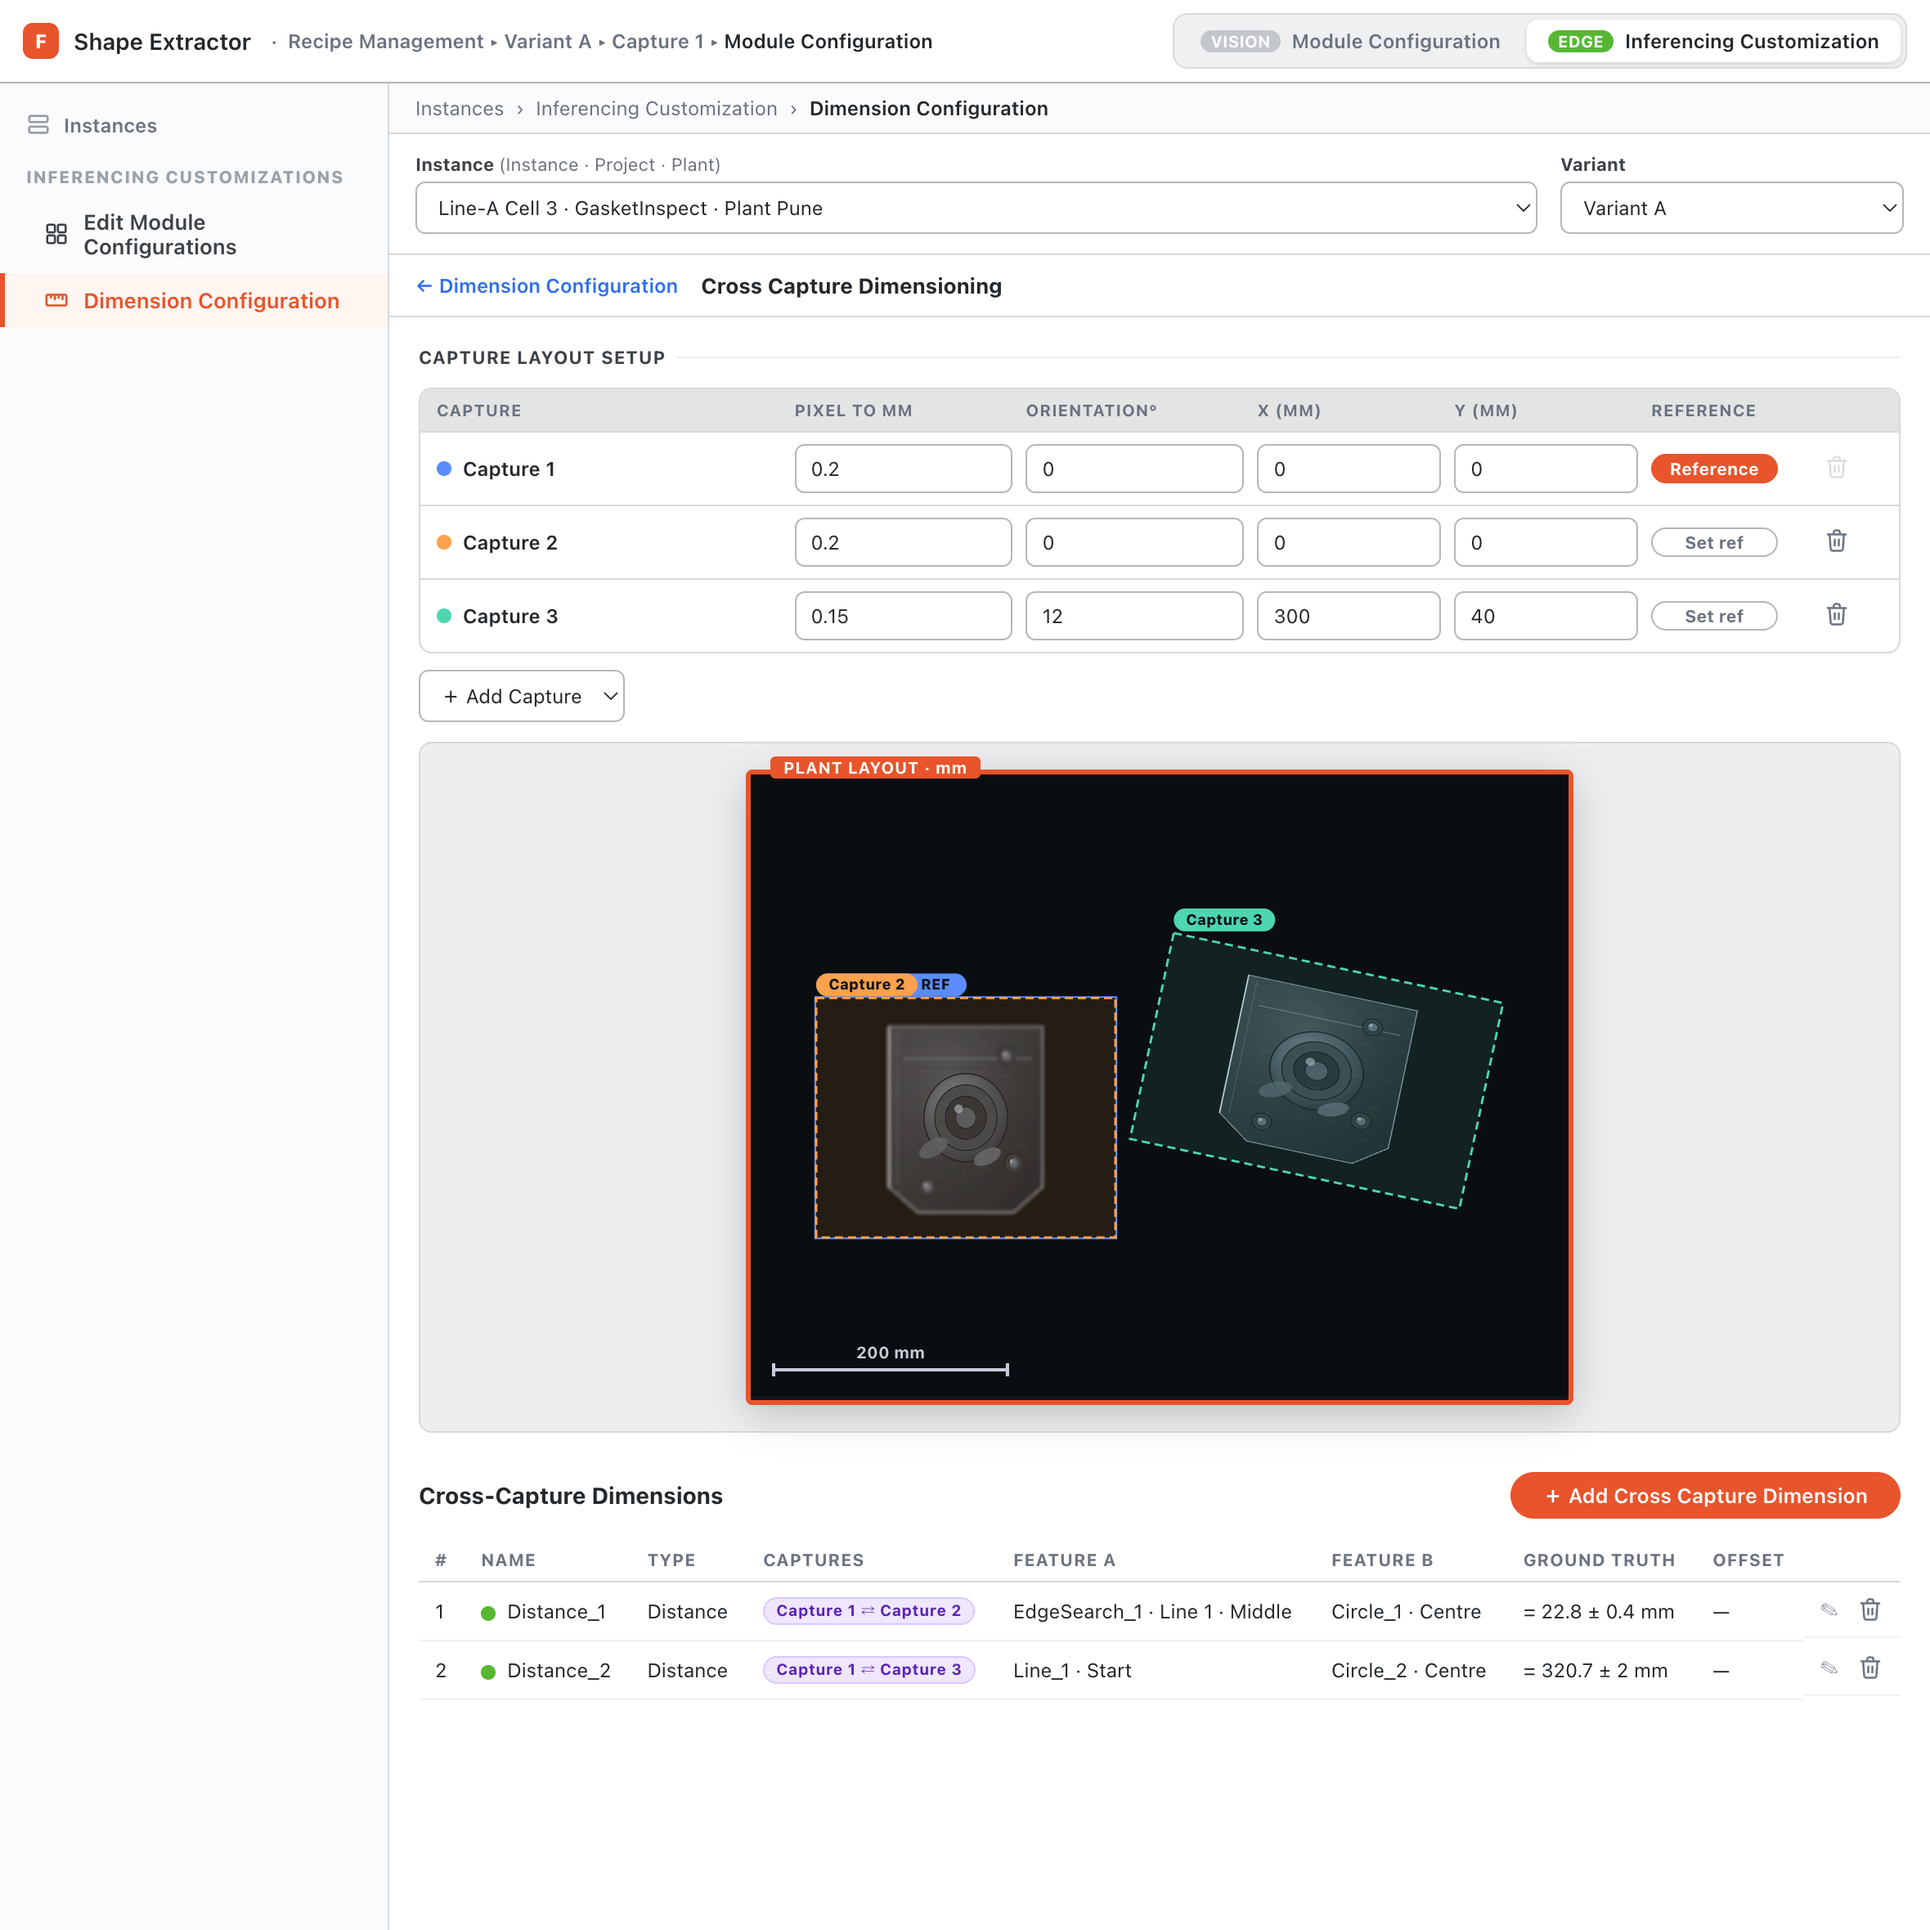
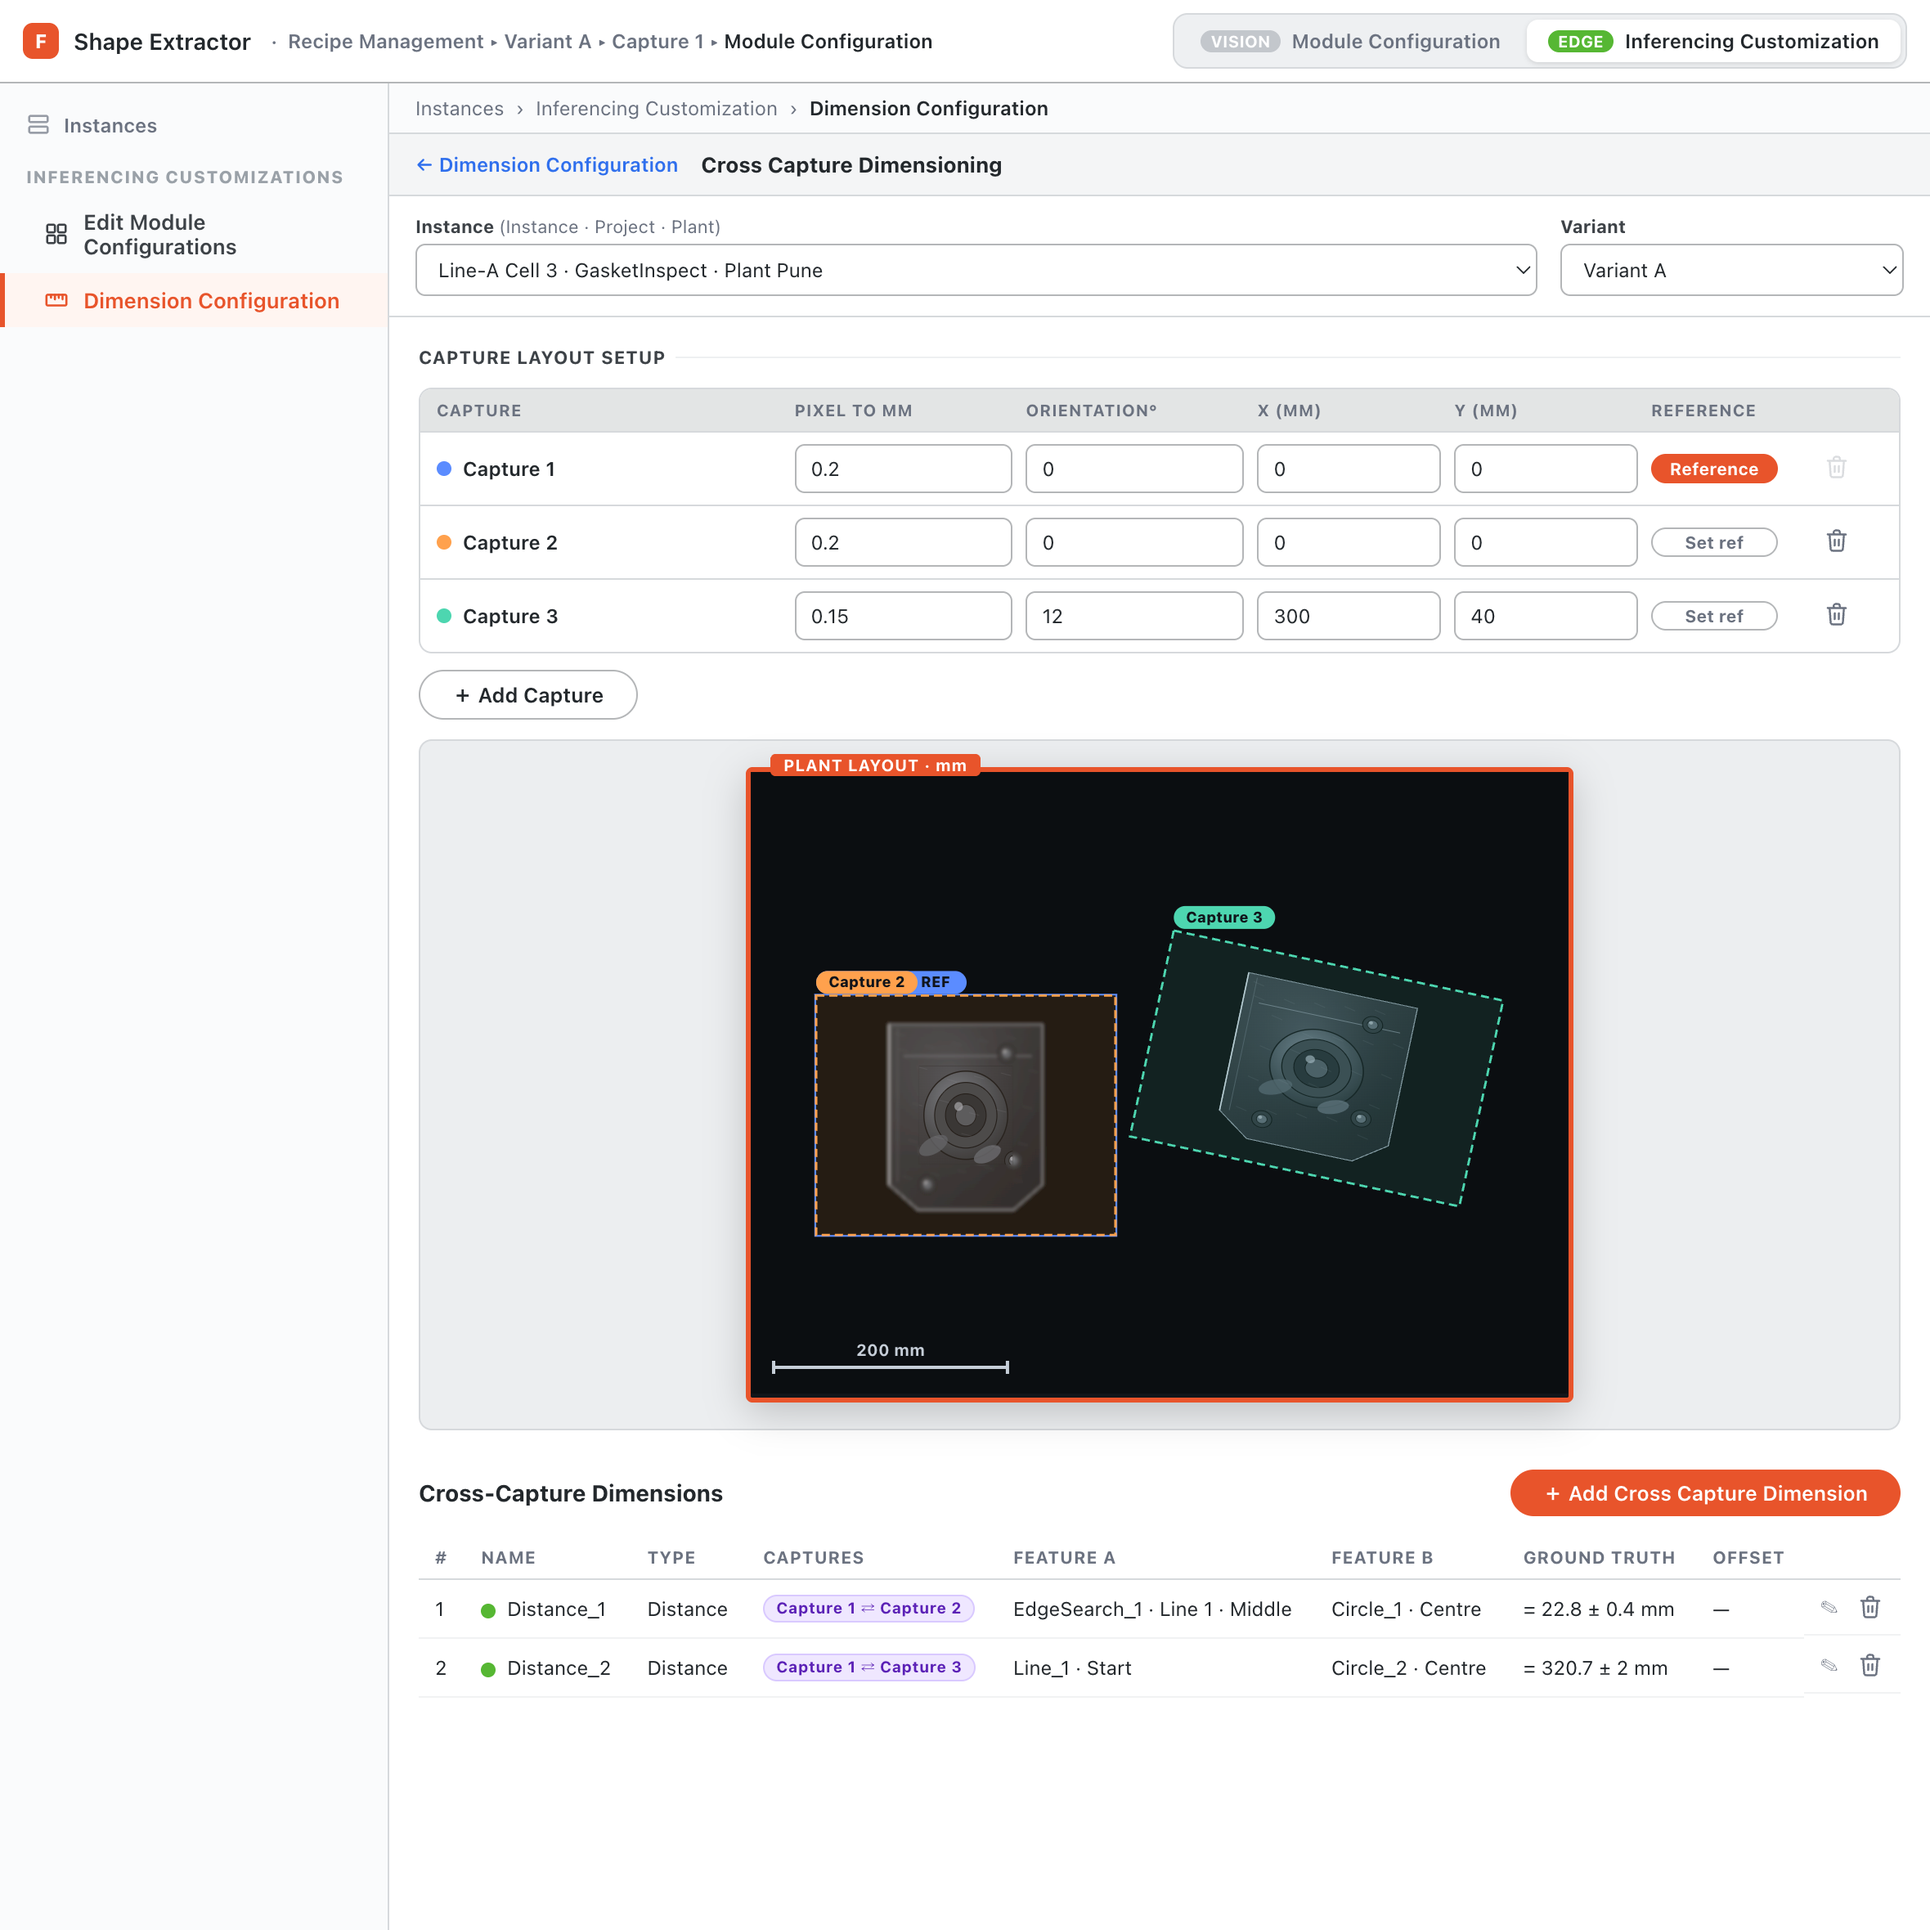
Cross Capture Dimensioning UX: inline Add-Capture row (no nested dropdown), Distance-only greyed Type, sub-page header above Instance/Variant
- + Add Capture is now a button that drops a draft row into the table; the Capture
  cell is a picker. Button hidden once every capture is established.
- Add Cross Capture Dimension: Type dropdown is greyed (Distance only across captures).
- The back arrow + page title (Cross Capture Dimensioning / Add Cross Capture
  Dimension / Add-Edit Dimension) is lifted into the Edge chrome, above the
  Instance / Variant selectors, for every Dimension Configuration sub-page.

diff --git a/index.html b/index.html
@@ -1516,8 +1516,8 @@ function makeDim(shapes, n) {
   };
 }
 // A cross-capture dimension: same shape as a normal dimension, but Feature B defaults to a different
-// capture. Only the two-feature types (Angle, Distance) can span captures.
-const CROSS_TYPE_OPTS = DIM_TYPE_OPTS.filter((o) => o.v === 1 || o.v === 2);
+// capture. Only Distance is allowed across captures (the Type dropdown is greyed out to convey this).
+const CROSS_TYPE_OPTS = DIM_TYPE_OPTS.filter((o) => o.v === 2);
 function makeCrossDim(shapes, n) {
   return {
     id: 'dim_' + Math.floor(rnd() * 1e6), name: 'Distance_' + n,
@@ -2067,7 +2067,7 @@ function FeatureCascade({ node, patch, shapes, typeOpts, onType, allowCross = fa
     <div>
       <div className="row3 field">
         {typeOpts && <div><span className="tinylab">Type</span>
-          <select className="sel" value={node.type} onChange={(e) => onType(Number(e.target.value))}>
+          <select className="sel" value={node.type} disabled={typeOpts.length <= 1} title={typeOpts.length <= 1 ? 'Only Distance can be measured across captures' : undefined} onChange={(e) => onType(Number(e.target.value))}>
             {typeOpts.map((o) => <option key={o.v} value={o.v}>{o.n}</option>)}
           </select>
         </div>}
@@ -2213,6 +2213,9 @@ function CaptureLayoutSetup({ layout, setLayout, activeCaps, setActiveCaps }) {
   };
   const removeCap = (id) => { if (id !== ref) setActiveCaps((p) => p.filter((x) => x !== id)); };
 
+  // Adding a capture drops a draft ROW into the table whose Capture cell is a picker; choosing a
+  // capture there establishes it. No nested dropdown-in-a-dropdown.
+  const [pendingRow, setPendingRow] = useState(false);
   // Save / Reset the capture layout — the bar appears once the setup is changed (e.g. a capture added).
   const [committed, setCommitted] = useState(() => ({ activeCaps: [...activeCaps], layout: clone(layout) }));
   const snapOf = (a, L) => JSON.stringify([a, L.ratio, L.angle, L.offset, L.referenceId]);
@@ -2285,14 +2288,25 @@ function CaptureLayoutSetup({ layout, setLayout, activeCaps, setActiveCaps }) {
             </div>
           );
         })}
+        {pendingRow && (
+          <div className="xr">
+            <select className="sel" style={{ width: '100%' }} value="" onChange={(e) => { if (e.target.value) { establish(e.target.value); setPendingRow(false); } }}>
+              <option value="">Select capture…</option>
+              {remaining.map((c) => <option key={c.id} value={c.id}>{c.name}</option>)}
+            </select>
+            <input className="inp" disabled value="0.2" readOnly />
+            <input className="inp" disabled value="0" readOnly />
+            <input className="inp" disabled value="0" readOnly />
+            <input className="inp" disabled value="0" readOnly />
+            <span className="refbtn" style={{ opacity: 0.35 }}>—</span>
+            <span className="rm" title="Cancel" onClick={() => setPendingRow(false)}>✕</span>
+          </div>
+        )}
       </div>
       <div className="xcap-tablefoot">
         <div>
-          {remaining.length > 0 && (
-            <select className="sel" style={{ maxWidth: 220 }} value="" onChange={(e) => establish(e.target.value)}>
-              <option value="">＋ Add Capture</option>
-              {remaining.map((c) => <option key={c.id} value={c.id}>{c.name}</option>)}
-            </select>
+          {remaining.length > 0 && !pendingRow && (
+            <button className="btn btn-ghost sm" onClick={() => setPendingRow(true)}>＋ Add Capture</button>
           )}
         </div>
         {dirty && (
@@ -2344,10 +2358,22 @@ function CaptureLayoutSetup({ layout, setLayout, activeCaps, setActiveCaps }) {
 }
 
 // Dimension Configuration: table list ↔ add/edit sub-page
-function DimensionConfig({ dims, setDims, shapes, layout, setLayout, activeCaps, setActiveCaps }) {
+function DimensionConfig({ dims, setDims, shapes, layout, setLayout, activeCaps, setActiveCaps, setDimHeader }) {
   const [view, setView] = useState('list');
   const [draft, setDraft] = useState(null);
   const [editId, setEditId] = useState(null);
+  // The sub-page header (back arrow + title) is lifted into the Edge chrome, so it sits ABOVE the
+  // Instance / Variant selectors rather than inside the page body.
+  useEffect(() => {
+    if (!setDimHeader) return;
+    const H = {
+      edit:  { title: (editId ? 'Edit' : 'Add') + ' Dimension', backLabel: 'Dimension Configuration', back: () => setView('list') },
+      xedit: { title: (editId ? 'Edit' : 'Add') + ' Cross Capture Dimension', backLabel: 'Cross Capture Dimensioning', back: () => setView('xcap') },
+      xcap:  { title: 'Cross Capture Dimensioning', backLabel: 'Dimension Configuration', back: () => setView('list') },
+    };
+    setDimHeader(H[view] || null);
+  }, [view, editId]);
+  useEffect(() => () => setDimHeader && setDimHeader(null), []);
   const shapeName = (id) => (shapes.find((s) => s.id === id) || {}).name || '';
   // A dimension errors when a shape it points at no longer exists — this blocks deployment
   // until the operator re-points it or deletes it.
@@ -2374,10 +2400,6 @@ function DimensionConfig({ dims, setDims, shapes, layout, setLayout, activeCaps,
   if (view === 'edit' && draft) {
     return (
       <div className="dimedit">
-        <div className="dimedit-hd">
-          <button className="linkback" onClick={() => setView('list')}>← Dimension Configuration</button>
-          <span>{editId ? 'Edit' : 'Add'} Dimension</span>
-        </div>
         <div className="dimedit-split">
           <div className="dimedit-form"><DimensionForm draft={draft} setDraft={setDraft} shapes={shapes} layout={layout} setLayout={setLayout} /></div>
           <div className="emc-canvas">
@@ -2397,10 +2419,6 @@ function DimensionConfig({ dims, setDims, shapes, layout, setLayout, activeCaps,
   if (view === 'xedit' && draft) {
     return (
       <div className="dimedit">
-        <div className="dimedit-hd">
-          <button className="linkback" onClick={() => setView('xcap')}>← Cross Capture Dimensioning</button>
-          <span>{editId ? 'Edit' : 'Add'} Cross Capture Dimension</span>
-        </div>
         <div className="dimedit-split">
           <div className="dimedit-form"><DimensionForm draft={draft} setDraft={setDraft} shapes={shapes} layout={layout} setLayout={setLayout} allowCross={true} typeOpts={CROSS_TYPE_OPTS} /></div>
           <div className="emc-canvas">
@@ -2418,10 +2436,6 @@ function DimensionConfig({ dims, setDims, shapes, layout, setLayout, activeCaps,
   if (view === 'xcap') {
     return (
       <div className="dimedit">
-        <div className="dimedit-hd">
-          <button className="linkback" onClick={() => setView('list')}>← Dimension Configuration</button>
-          <span>Cross Capture Dimensioning</span>
-        </div>
         <div className="dimlist">
           <div className="block-t">Capture Layout Setup <span className="ln" /></div>
           <CaptureLayoutSetup layout={layout} setLayout={setLayout} activeCaps={activeCaps} setActiveCaps={setActiveCaps} />
@@ -2522,6 +2536,7 @@ function EdgeShell({ toast }) {
   const [emcCap, setEmcCap] = useState(CAPTURES[0].id);   // Edit Module Configurations is per capture
   const [layout, setLayout] = useState(DEFAULT_LAYOUT);   // capture layout — variant scope, shared by every dimension
   const [activeCaps, setActiveCaps] = useState(['cap1', 'cap2', 'cap3']);   // captures established in the cross-capture layout
+  const [dimHeader, setDimHeader] = useState(null);   // sub-page header (back + title) lifted above the selectors
   const [sel, setSel] = useState(() => shapes.find((s) => s.captureId === CAPTURES[0].id).id);
   const [dirty, setDirty] = useState(false);
   const [reviewModal, setReviewModal] = useState(false);
@@ -2553,6 +2568,12 @@ function EdgeShell({ toast }) {
       </div>
       <div className="emc-main">
       <div className="emc-crumbs">Instances <span>›</span> Inferencing Customization <span>›</span> <b>{tab === 'emc' ? 'Edit Module Configurations' : 'Dimension Configuration'}</b></div>
+      {tab === 'dim' && dimHeader && (
+        <div className="dimedit-hd">
+          <button className="linkback" onClick={dimHeader.back}>← {dimHeader.backLabel}</button>
+          <span>{dimHeader.title}</span>
+        </div>
+      )}
       <div className="emc-selectors">
         <div className="fld grow">
           <label>Instance <span style={{ fontWeight: 400, color: 'var(--muted)' }}>(Instance · Project · Plant)</span></label>
@@ -2575,7 +2596,7 @@ function EdgeShell({ toast }) {
       <div className="emc-body">
         {tab === 'emc'
           ? <EdgeShapeEditor shapes={capShapes} setShapes={setShapes} sel={sel} setSel={setSel} onDirty={() => setDirty(true)} />
-          : <DimensionConfig dims={dims} setDims={setDims} shapes={shapes} layout={layout} setLayout={setLayout} activeCaps={activeCaps} setActiveCaps={setActiveCaps} />}
+          : <DimensionConfig dims={dims} setDims={setDims} shapes={shapes} layout={layout} setLayout={setLayout} activeCaps={activeCaps} setActiveCaps={setActiveCaps} setDimHeader={setDimHeader} />}
       </div>
 
       {tab === 'emc' && (
